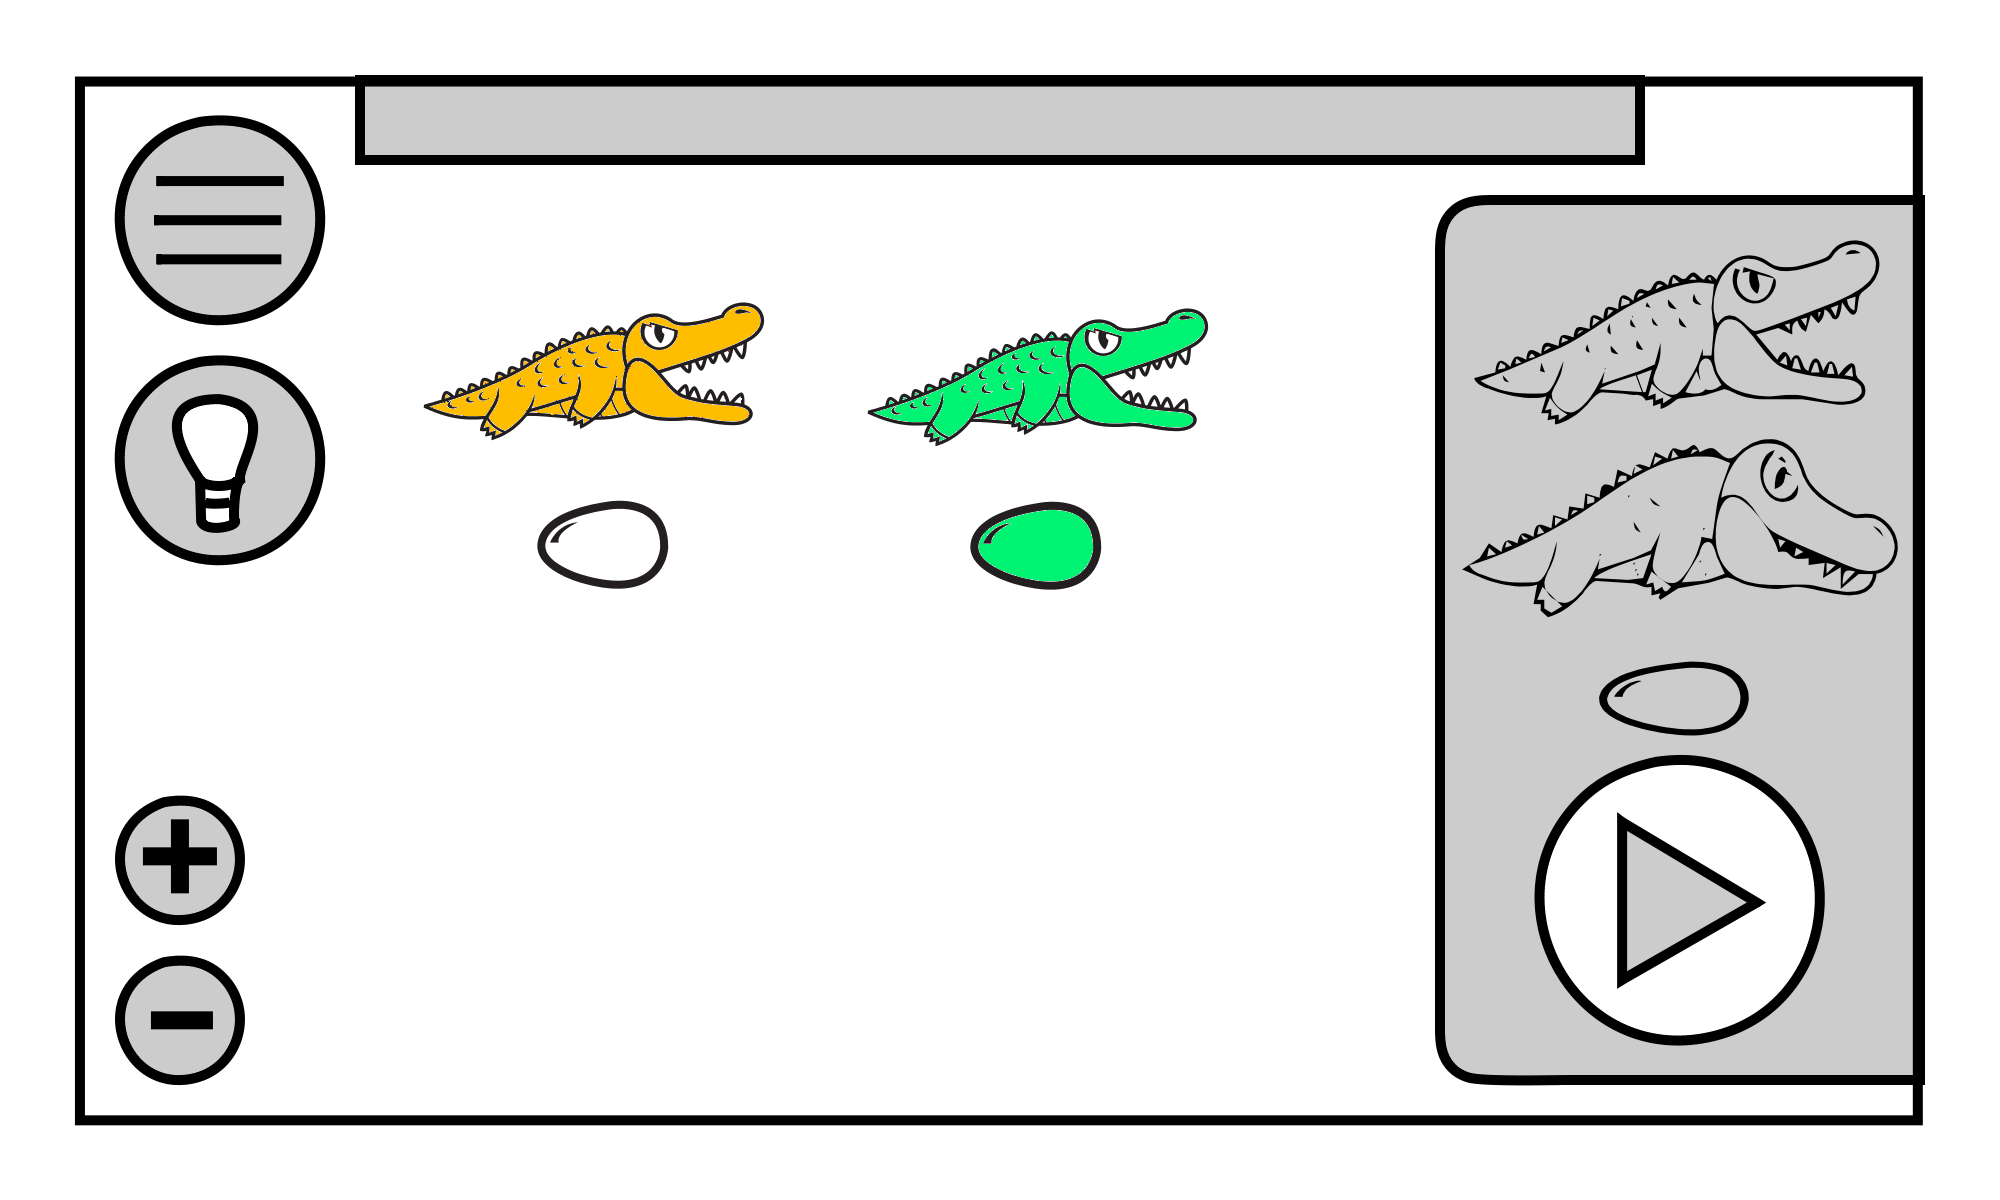
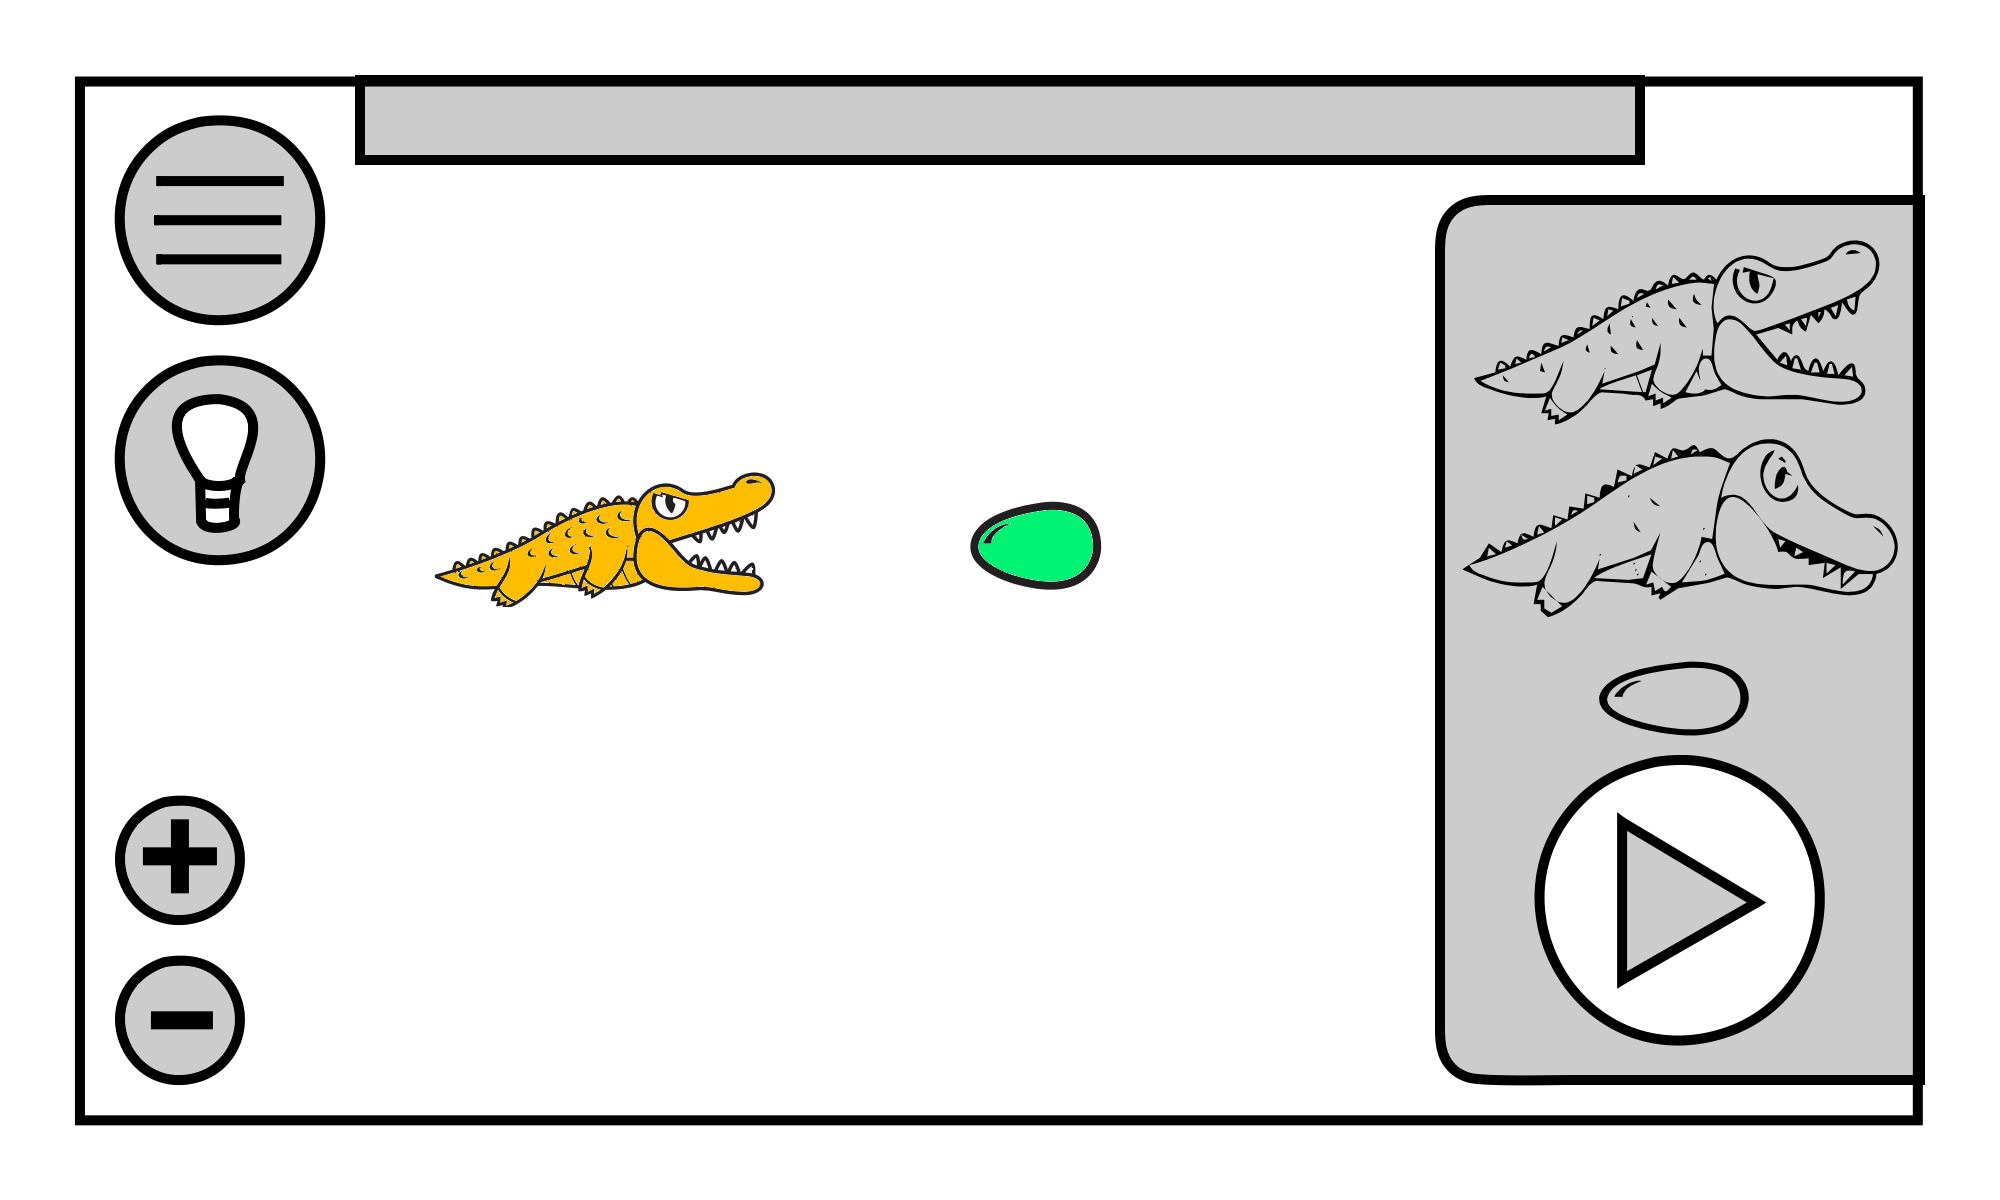
Change pictures.

Changed region(s): [[0.434, 0.2467, 0.62, 0.37], [0.217, 0.2467, 0.403, 0.37], [0.217, 0.4008, 0.403, 0.5242]]

diff --git a/pflichtenheft/presentation.tex b/pflichtenheft/presentation.tex
@@ -74,11 +74,27 @@ Lukas Böhm $\cdot$ Tobias Hornberger $\cdot$ Jonas Mehlhaus \\ Iris Mehrbrodt  
 \end{frame}
 \begin{frame}
 	\frametitle{Bedienung}
+	\includegraphics[height=\textheight]{level_croc.png}
+\end{frame}
+\begin{frame}
+	\frametitle{Bedienung}
 	\includegraphics[height=\textheight]{level_colored_croc.png}
 \end{frame}
 \begin{frame}
 	\frametitle{Bedienung}
-	\includegraphics[height=\textheight]{level_colored.png}
+	\includegraphics[height=\textheight]{level_colored_croc0.png}
+\end{frame}
+\begin{frame}
+	\frametitle{Bedienung}
+	\includegraphics[height=\textheight]{level_colored_croc01.png}
+\end{frame}
+\begin{frame}
+	\frametitle{Bedienung}
+	\includegraphics[height=\textheight]{level_colored_croc1.png}
+\end{frame}
+\begin{frame}
+	\frametitle{Bedienung}
+	\includegraphics[height=\textheight]{level_colored_croc2.png}
 \end{frame}
 \begin{frame}
 	\frametitle{Bedienung}
